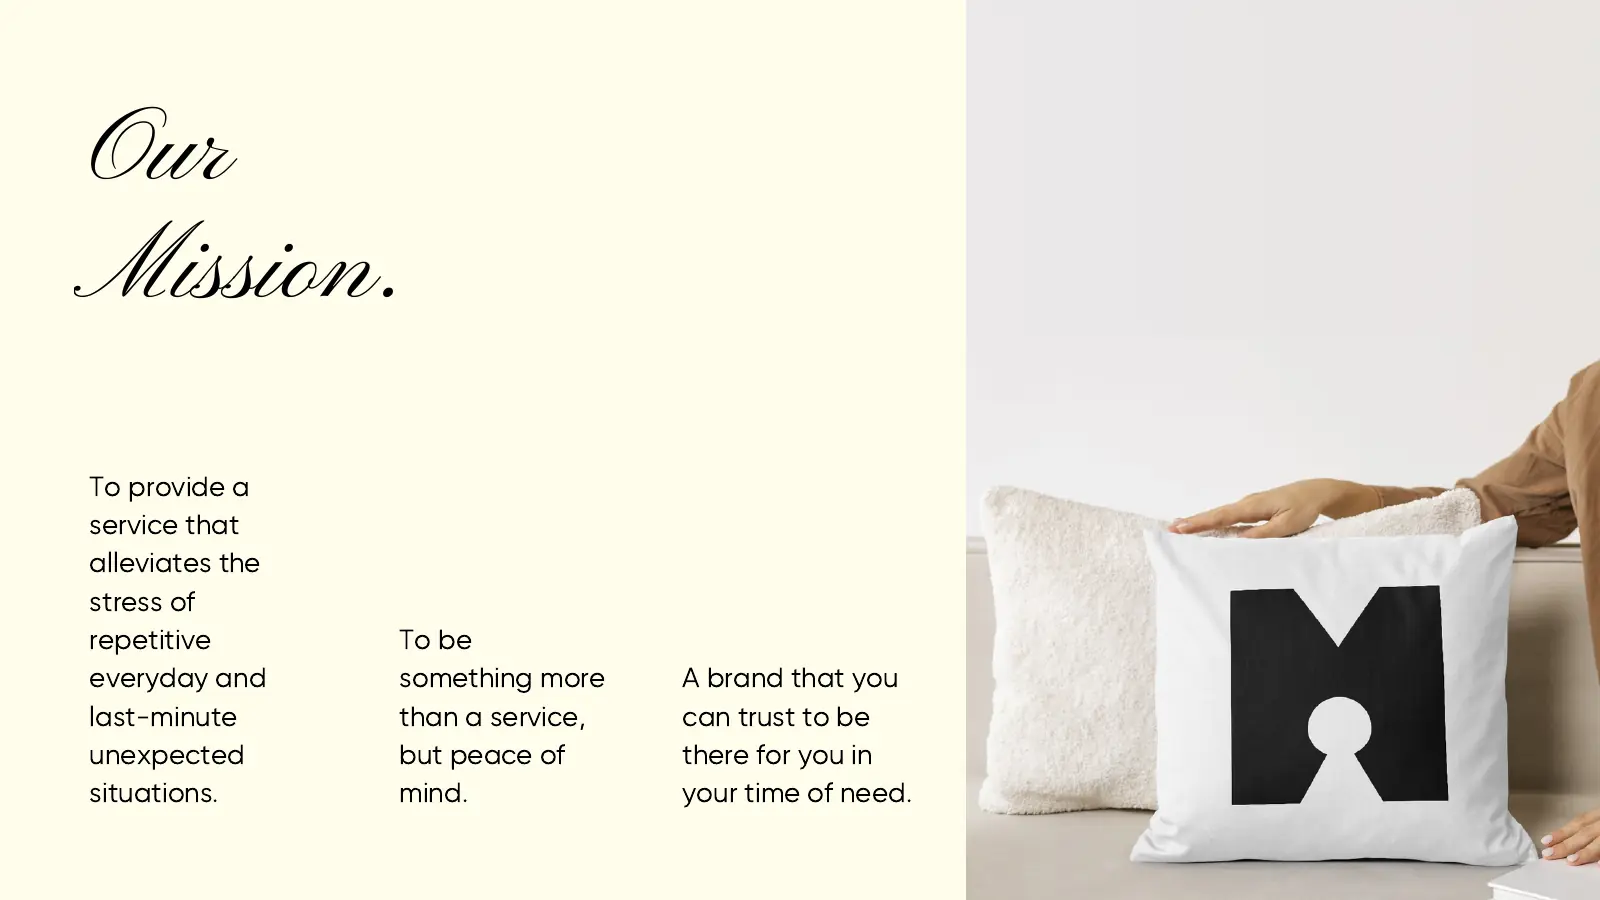
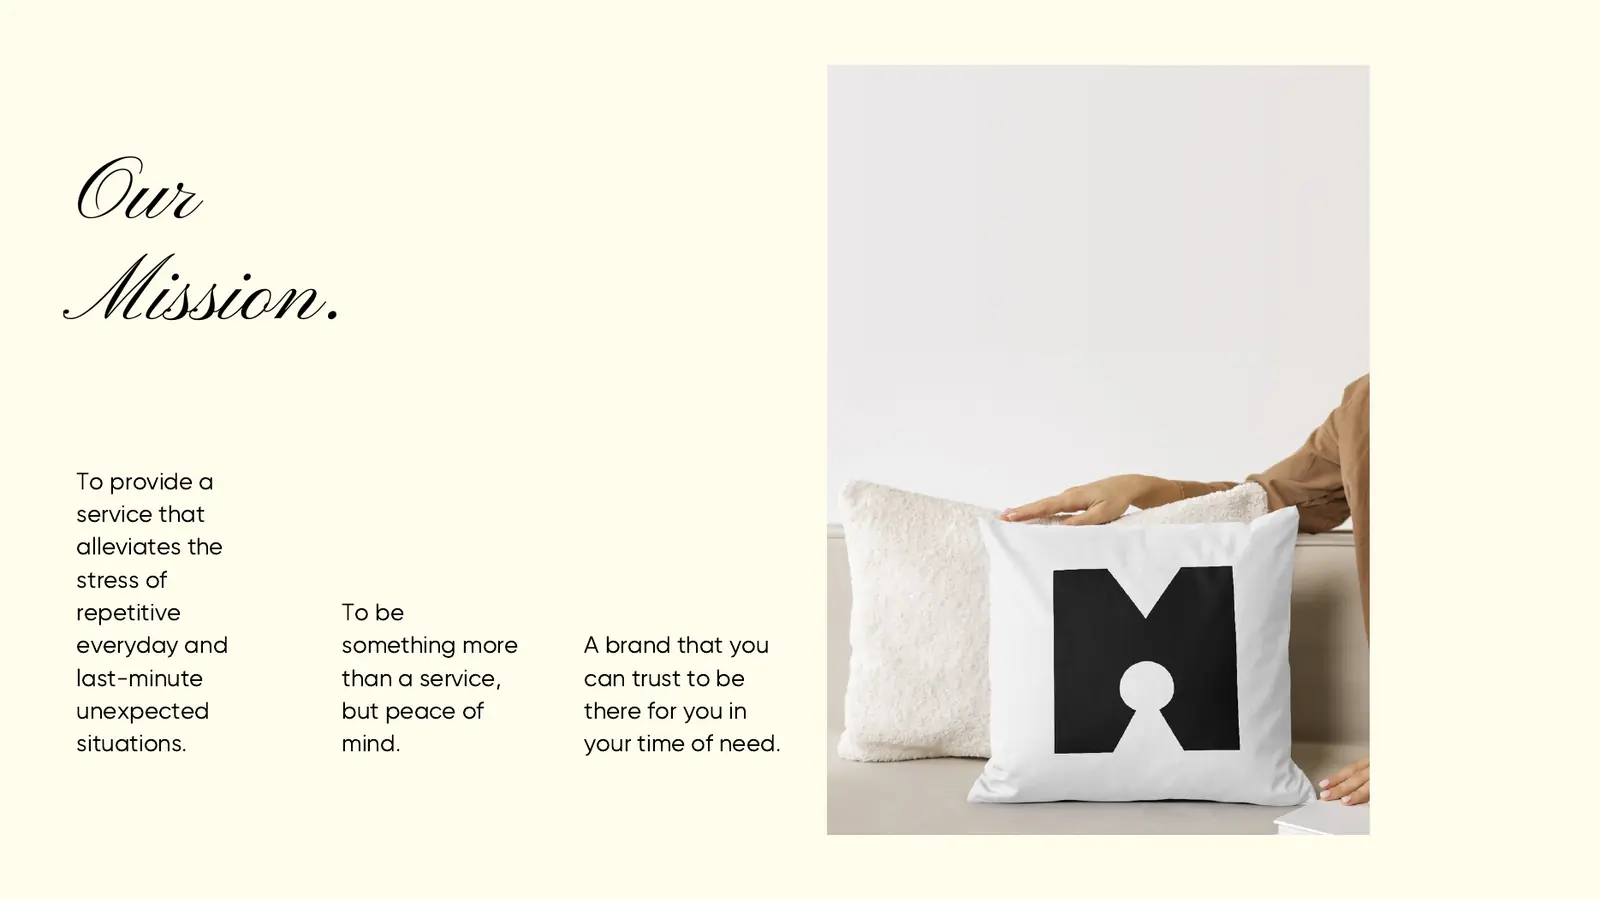
Brand book section: centred copy, chapter cards, larger centred book; spreads re-composed so content clears the spine
Claude-Session: https://claude.ai/code/session_01FhuZuoK9pydJdTbsiHYYdj

diff --git a/src/styles/design.css b/src/styles/design.css
@@ -53,30 +53,33 @@
 
 /* What's a brand book? */
 .dz-intro { position: relative; overflow: hidden; scroll-margin-top: 0; }
-.dz-intro-grid { display: grid; gap: 2.5rem; grid-template-columns: minmax(0, 1fr); }
-@media (min-width: 900px) { .dz-intro-grid { grid-template-columns: minmax(0, 1.1fr) minmax(0, 0.9fr); grid-template-areas: "copy spreads" "inside spreads"; column-gap: clamp(2rem, 6vw, 6rem); } .dz-intro-copy { grid-area: copy; } .dz-inside { grid-area: inside; } .dz-spreads { grid-area: spreads; } }
+.dz-intro-stack { display: grid; gap: clamp(2rem, 4vw, 3.25rem); justify-items: center; }
+.dz-intro-copy { max-width: 46rem; text-align: center; }
+.dz-intro-copy .dz-big, .dz-intro-copy .dz-text { margin-inline: auto; }
 .dz-big { margin: 1.5rem 0 0; max-width: 34rem; font-size: clamp(1.4rem, 2.6vw, 2.2rem); font-weight: 600; line-height: 1.2; }
 .dz-text { margin: 1.1rem 0 0; max-width: 36rem; font-size: 1.05rem; opacity: 0.85; }
 .dz-text--dim { opacity: 0.6; }
-.dz-inside .dz-label { color: var(--cream); }
-.dz-inside-list { margin: 0; padding: 0; list-style: none; }
-.dz-inside-list li { display: grid; grid-template-columns: 3rem minmax(0, 1fr); gap: 0.5rem; padding: 0.9rem 0; border-top: 1px solid rgba(245, 239, 232, 0.2); }
-.dz-inside-list li:last-child { border-bottom: 1px solid rgba(245, 239, 232, 0.2); }
-.dz-inside-n { font-family: var(--display); font-size: 1.3rem; color: var(--butter); }
-.dz-inside-t b { display: block; font-size: 1.1rem; }
-.dz-inside-t span span { display: block; margin-top: 0.15rem; opacity: 0.7; }
-.dz-inside-btn { display: grid; grid-template-columns: 3rem minmax(0, 1fr) 1.4rem; align-items: start; gap: 0.5rem; width: 100%; padding: 0; border: 0; background: none; color: inherit; font: inherit; text-align: left; cursor: pointer; }
-.dz-inside-list li:has(.dz-inside-btn) { display: block; padding: 0; }
-.dz-inside-btn { padding: 0.9rem 0; transition: color 0.25s ease, padding 0.3s cubic-bezier(0.22, 1, 0.36, 1); }
-.dz-inside-btn svg { width: 1.2rem; height: 1.2rem; margin-top: 0.2rem; opacity: 0.4; transition: transform 0.3s cubic-bezier(0.34, 1.56, 0.64, 1), opacity 0.25s ease, color 0.25s ease; }
-.dz-inside-btn:hover { padding-left: 0.35rem; }
-.dz-inside-btn:hover svg, .dz-inside-btn[aria-current] svg { opacity: 1; transform: rotate(45deg); color: var(--red); }
-.dz-inside-btn[aria-current] .dz-inside-t b { color: var(--butter); }
-.dz-inside-btn[aria-current] .dz-inside-n { color: var(--red); }
+.dz-inside { width: 100%; max-width: 72rem; }
+.dz-inside .dz-label { margin-bottom: 1rem; text-align: center; color: var(--cream); }
+.dz-inside .dz-label span { font-weight: 400; letter-spacing: 0.04em; text-transform: none; opacity: 0.7; }
+.dz-inside-list { display: grid; gap: 0.75rem; grid-template-columns: minmax(0, 1fr); margin: 0; padding: 0; list-style: none; }
+@media (min-width: 600px) { .dz-inside-list { grid-template-columns: repeat(3, minmax(0, 1fr)); } }
+@media (min-width: 1100px) { .dz-inside-list { grid-template-columns: repeat(5, minmax(0, 1fr)); } }
+.dz-inside-list li { display: block; padding: 0; border: 0; }
+.dz-inside-list li:last-child { border: 0; }
+.dz-inside-btn { display: grid; grid-template-columns: minmax(0, 1fr) auto; grid-template-areas: "n a" "t t"; align-content: start; gap: 0.6rem; width: 100%; height: 100%; padding: 1rem 1.1rem 1.1rem; border: 1px solid rgba(245, 239, 232, 0.25); border-radius: 1.1rem; background: transparent; color: inherit; font: inherit; text-align: left; cursor: pointer; transition: background 0.3s ease, border-color 0.3s ease, transform 0.35s cubic-bezier(0.34, 1.56, 0.64, 1); }
+.dz-inside-btn:hover { background: rgba(245, 239, 232, 0.08); transform: translateY(-3px); }
+.dz-inside-btn[aria-current] { background: var(--red); border-color: var(--red); }
+.dz-inside-btn .dz-inside-n { grid-area: n; font-family: var(--display); font-size: 1.3rem; line-height: 1; color: var(--butter); }
+.dz-inside-btn svg { grid-area: a; width: 1.2rem; height: 1.2rem; opacity: 0.5; transition: transform 0.3s cubic-bezier(0.34, 1.56, 0.64, 1), opacity 0.25s ease; }
+.dz-inside-btn:hover svg, .dz-inside-btn[aria-current] svg { opacity: 1; transform: rotate(45deg); }
+.dz-inside-btn[aria-current] .dz-inside-n { color: var(--cream); }
+.dz-inside-btn .dz-inside-t { grid-area: t; }
+.dz-inside-t b { display: block; font-size: 1.05rem; line-height: 1.2; }
+.dz-inside-t span span { display: block; margin-top: 0.3rem; font-size: 0.88rem; opacity: 0.75; }
 
 /* The interactive brand book */
-.dz-spreads { align-self: start; }
-@media (min-width: 900px) { .dz-spreads { position: sticky; top: calc(var(--header-h) + 1.5rem); } .dz-intro-grid { grid-template-columns: minmax(0, 0.9fr) minmax(0, 1.1fr); } }
+.dz-spreads { width: 100%; max-width: 74rem; margin-inline: auto; padding-top: clamp(0.5rem, 2vw, 1.5rem); }
 .dz-book-wrap { display: grid; gap: 1rem; }
 .dz-book { --shift: -25%; position: relative; aspect-ratio: 16 / 9; perspective: 2600px; touch-action: pan-y; user-select: none; -webkit-user-select: none; cursor: grab; border-radius: 0.5rem; }
 .dz-book.is-dragging { cursor: grabbing; }
@@ -92,14 +95,14 @@
 .dz-pg--left img { left: 0; }
 .dz-pg--right img { left: -100%; }
 .dz-shade { position: absolute; inset: 0; pointer-events: none; }
-.dz-shade--f { background: linear-gradient(to right, rgba(23, 9, 10, calc(0.22 + var(--sf, 0) * 0.5)), rgba(23, 9, 10, 0) 9%), linear-gradient(to right, rgba(23, 9, 10, var(--sf, 0)), rgba(23, 9, 10, 0) 70%); }
-.dz-shade--b { background: linear-gradient(to left, rgba(23, 9, 10, 0.22), rgba(23, 9, 10, 0) 9%), linear-gradient(to left, rgba(23, 9, 10, var(--sb, 0)), rgba(23, 9, 10, 0) 70%); }
+.dz-shade--f { background: linear-gradient(to right, rgba(23, 9, 10, calc(0.1 + var(--sf, 0) * 0.5)), rgba(23, 9, 10, 0) 4.5%), linear-gradient(to right, rgba(23, 9, 10, var(--sf, 0)), rgba(23, 9, 10, 0) 70%); }
+.dz-shade--b { background: linear-gradient(to left, rgba(23, 9, 10, 0.1), rgba(23, 9, 10, 0) 4.5%), linear-gradient(to left, rgba(23, 9, 10, var(--sb, 0)), rgba(23, 9, 10, 0) 70%); }
 
 .dz-cover { position: absolute; inset: 0; display: grid; grid-template-rows: auto 1fr auto; justify-items: center; align-items: center; padding: 9% 8% 8%; background: #fffcec; color: var(--ink); text-align: center; }
 .dz-cover::before { content: ""; position: absolute; inset: 4%; border: 1px solid rgba(23, 9, 10, 0.18); border-radius: 0.3rem; pointer-events: none; }
 .dz-cover-spine { position: absolute; left: 0; top: 0; bottom: 0; width: 7%; background: linear-gradient(to right, rgba(23, 9, 10, 0.2), rgba(23, 9, 10, 0.04) 70%, transparent); }
 .dz-cover-kicker { font-family: "Instrument Serif", Georgia, serif; font-style: italic; font-size: clamp(1.2rem, 2.4vw, 1.9rem); }
-.dz-cover-logo { width: 78%; height: auto; max-height: 100%; object-fit: contain; mix-blend-mode: multiply; }
+.dz-cover-logo { width: 78%; height: auto; max-height: 100%; object-fit: contain; }
 .dz-cover-place { font-size: 0.78rem; font-weight: 600; letter-spacing: 0.2em; text-transform: uppercase; }
 
 .dz-book-bar { display: flex; align-items: center; gap: 0.6rem; }

diff --git a/DESIGN.md b/DESIGN.md
@@ -159,3 +159,6 @@ Interactive brand book (`DesignBook.astro`, in "What's a brand book?"):
 - Drag a page edge to turn it; release decides by angle and flick speed. Also: click a page, Previous / Next, arrow keys, Home / End, and an Enlarge button that reuses the lightbox via the `dz:lightbox` event.
 - The "What's inside" list is linked: each item turns the book to its spread (`spread` index in `BRAND_BOOK.inside`), and turning pages highlights the matching item.
 - `touch-action: pan-y` keeps vertical scrolling working on phones. Reduced motion: no peek, instant turns. Tested in Chromium (desktop and mobile emulation); Safari / iOS not tested.
+
+Layout of "What's a brand book?" (updated): centred copy, then the "What's inside" items as a row of cards that act as the book's chapter buttons, then the book large and centred below (up to about 1180px wide). Spreads are re-composed so the spine falls in whitespace on each slide (split points were found by scanning each slide for empty columns near the centre; the slide is padded with its own cream so both pages stay equal): mission 58%, logo 56%, logo concept 54%, palette 44.7%, "in the world" 56.5%; values, typography and the second mockup spread keep a 50% split. The crease shading is deliberately light so nothing near the spine is washed out.
+
